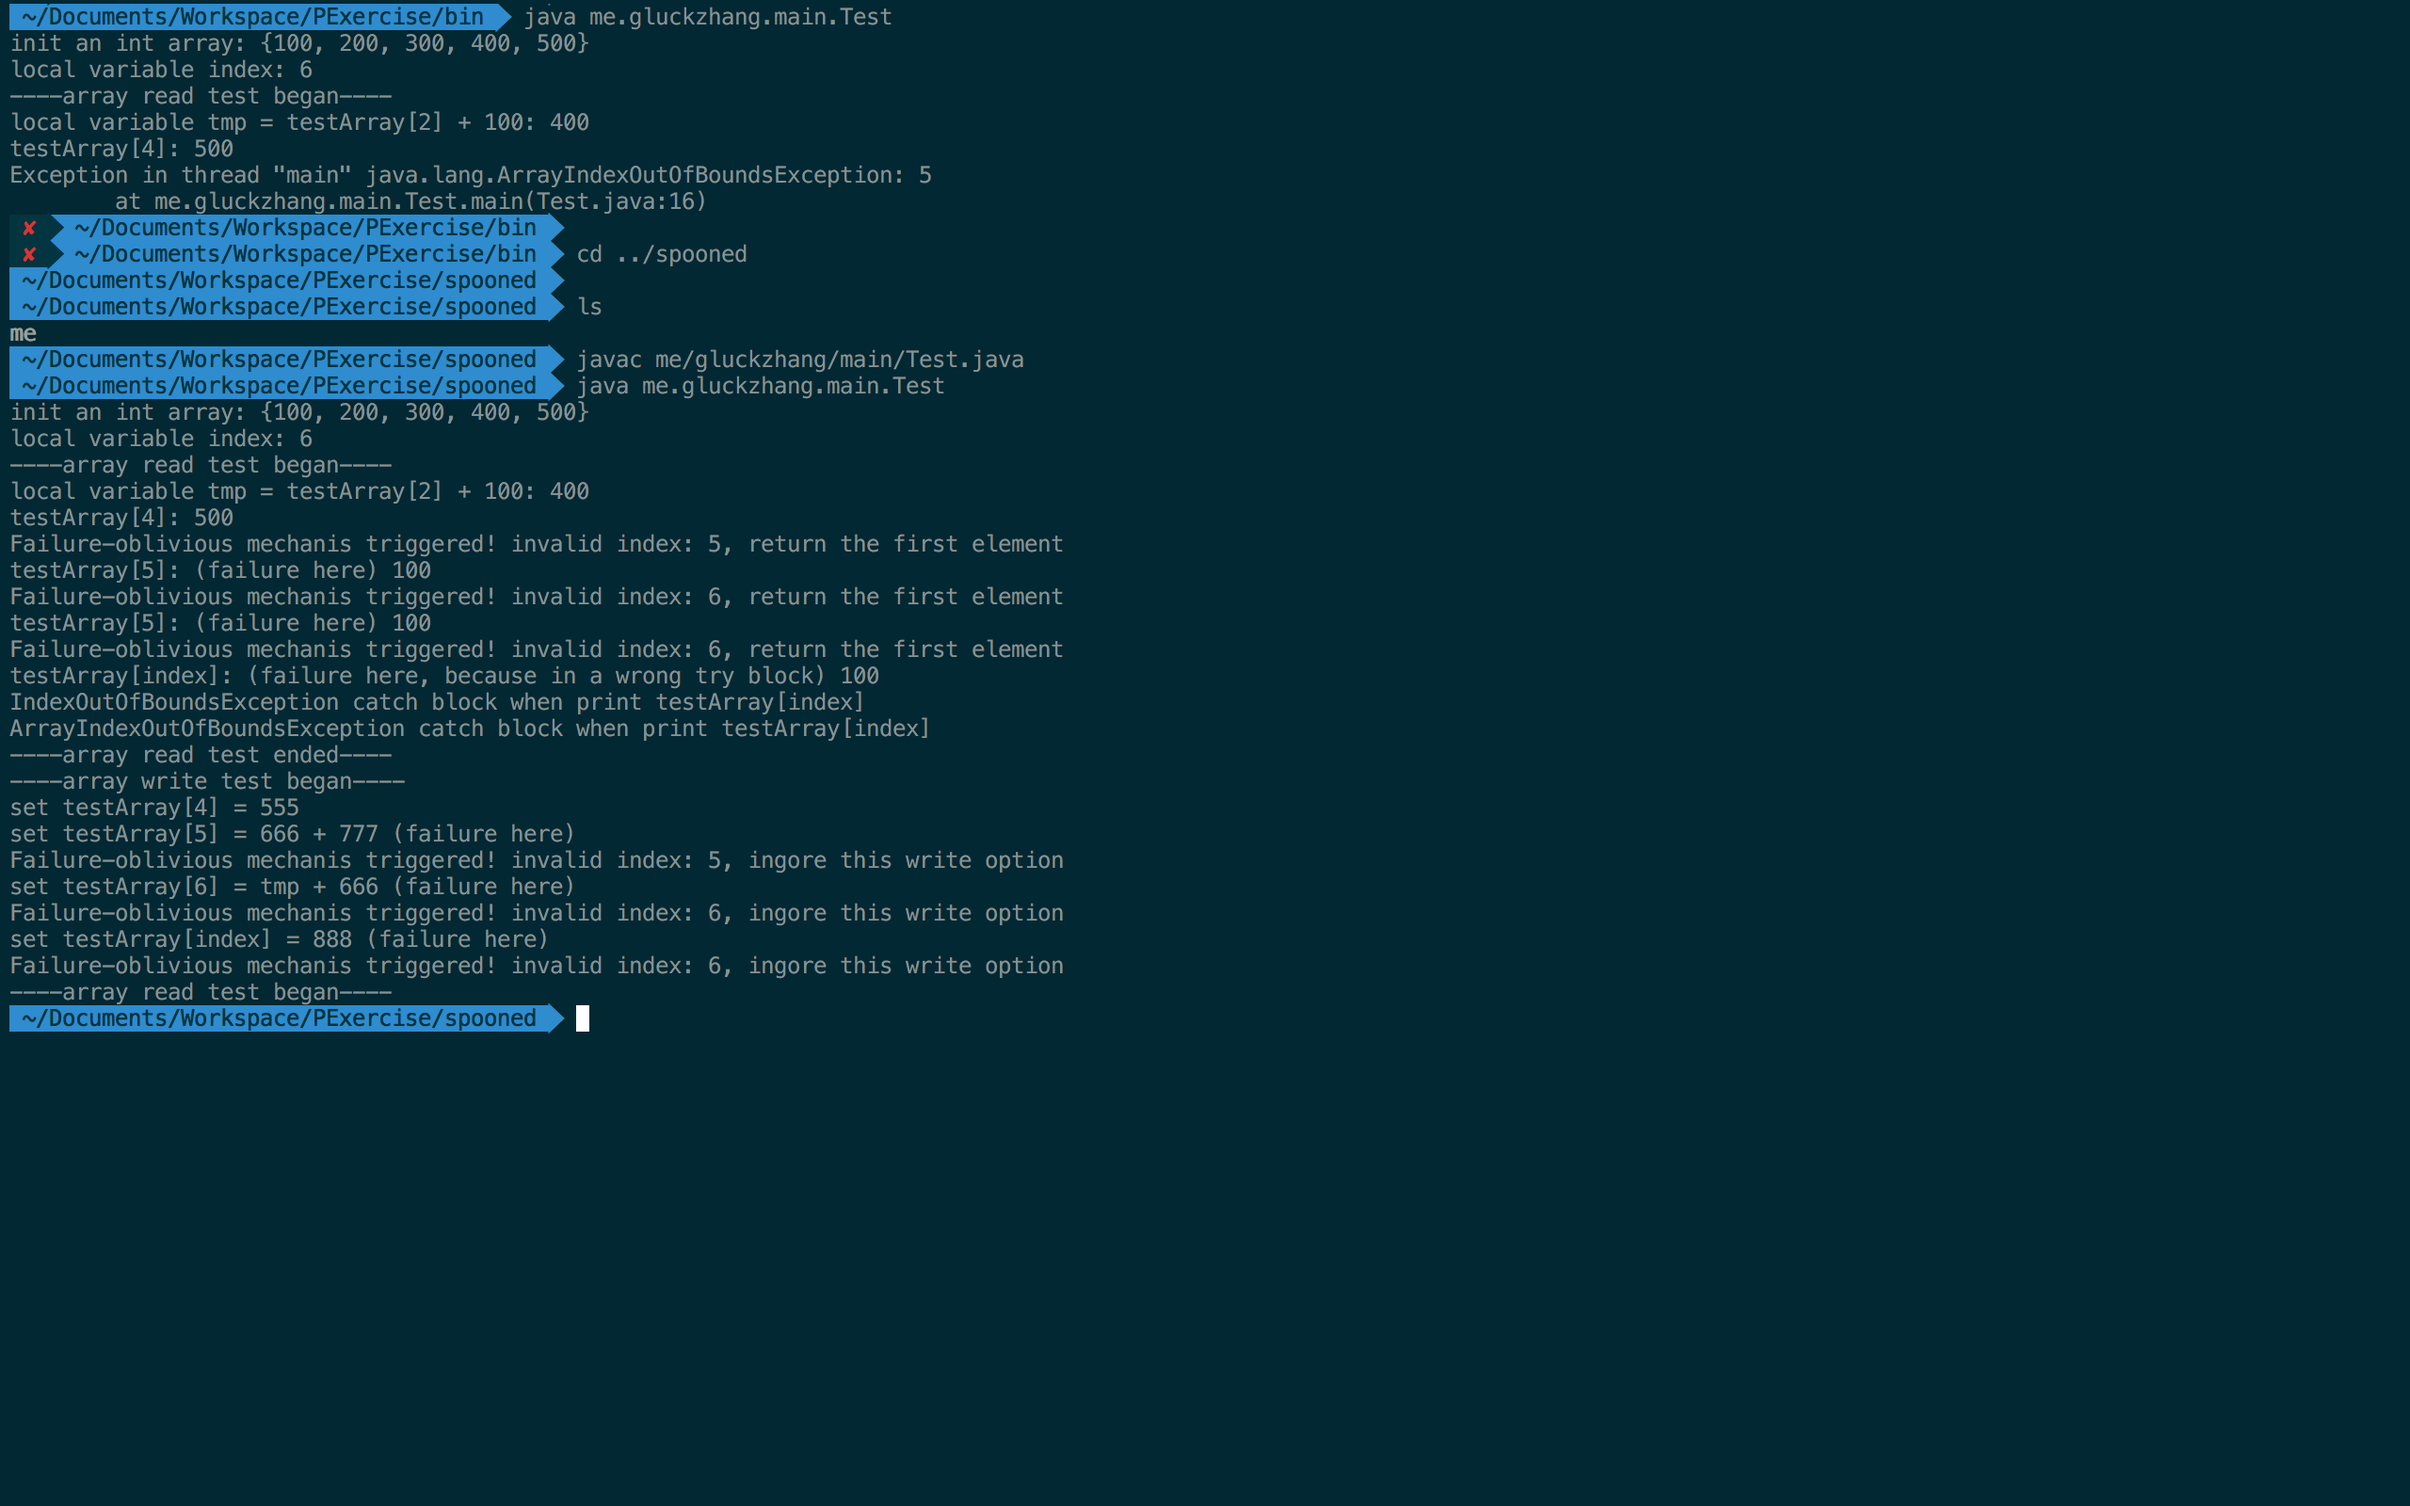
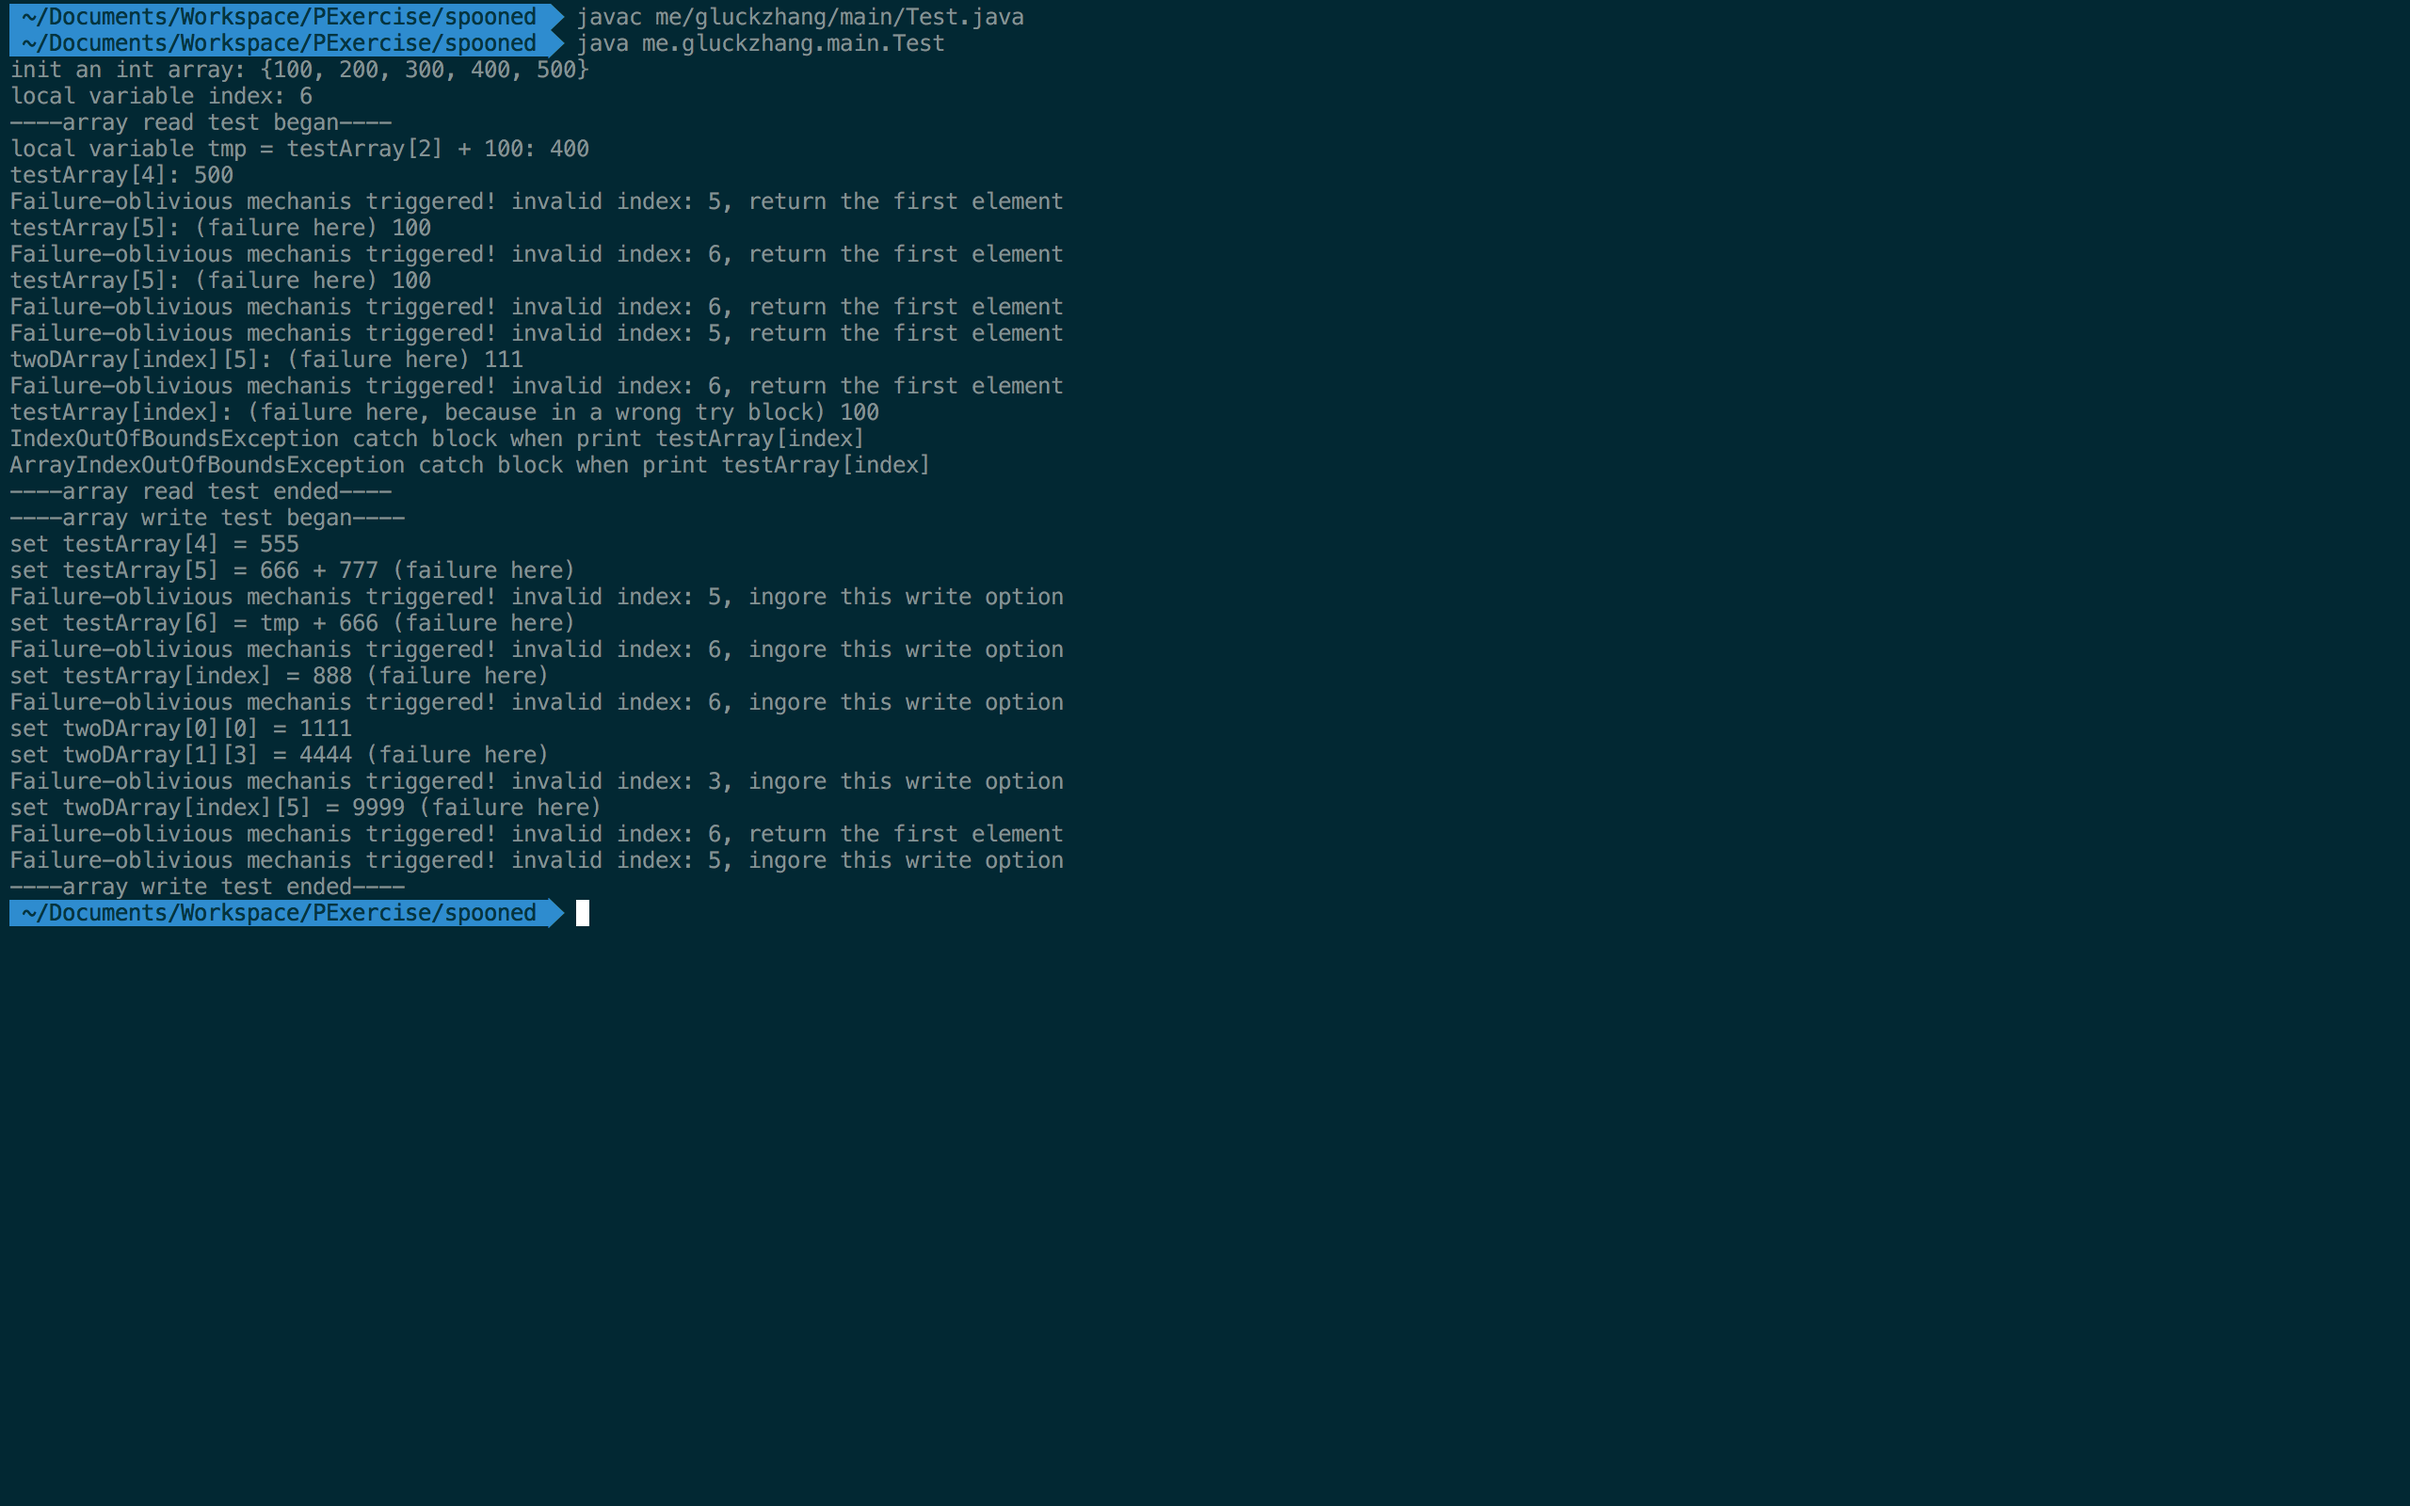
make it handle two-dimensional arrays

diff --git a/README.md b/README.md
@@ -6,8 +6,11 @@ The author of the paper implemented a safe compiler for C, and discussed the mec
 # Project Info
 This is an Eclipse project, you can import and run it in your Eclipse. Or directly read my screenshots as follows. I used Spoon to transform java codes in this project, you can see Spoon's introduction as follows.
 
+#Updated Version
+Now this prototype can handle two-dimensional array reading or writing operations. Because for a two-dimensional array like array[a][b], we can handle array[a] first, it should return the first address of the row.
+
 #Simplifying Assumptions
-This prototype only handles one-dimensional array reading or writing operations.
+~~ This prototype only handles one-dimensional array reading or writing operations. ~~
 
 # How to Achieve This Prototype
 
